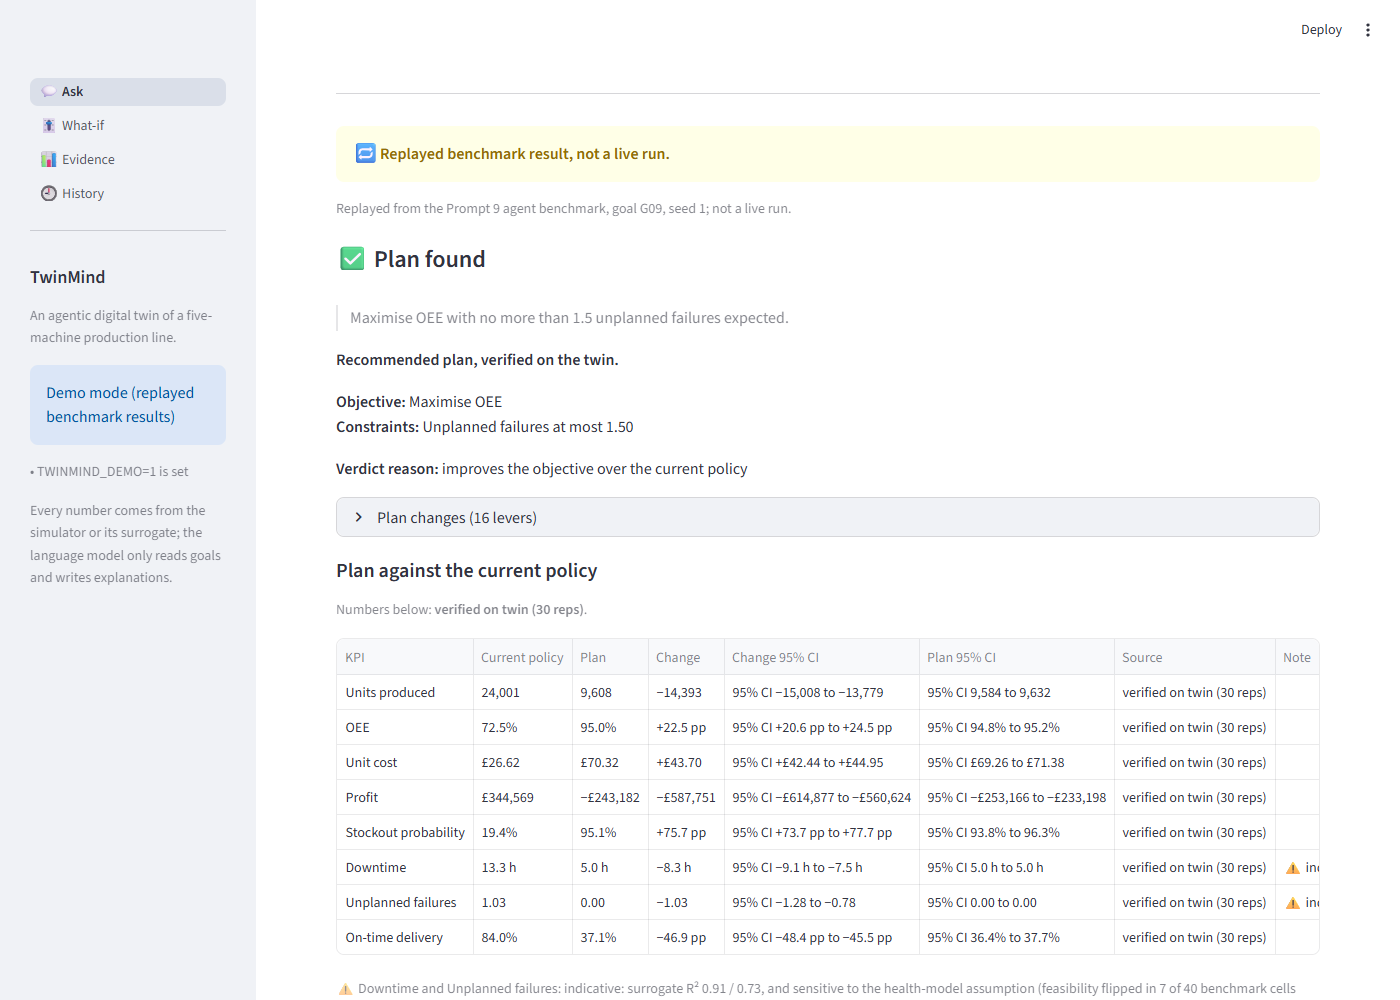
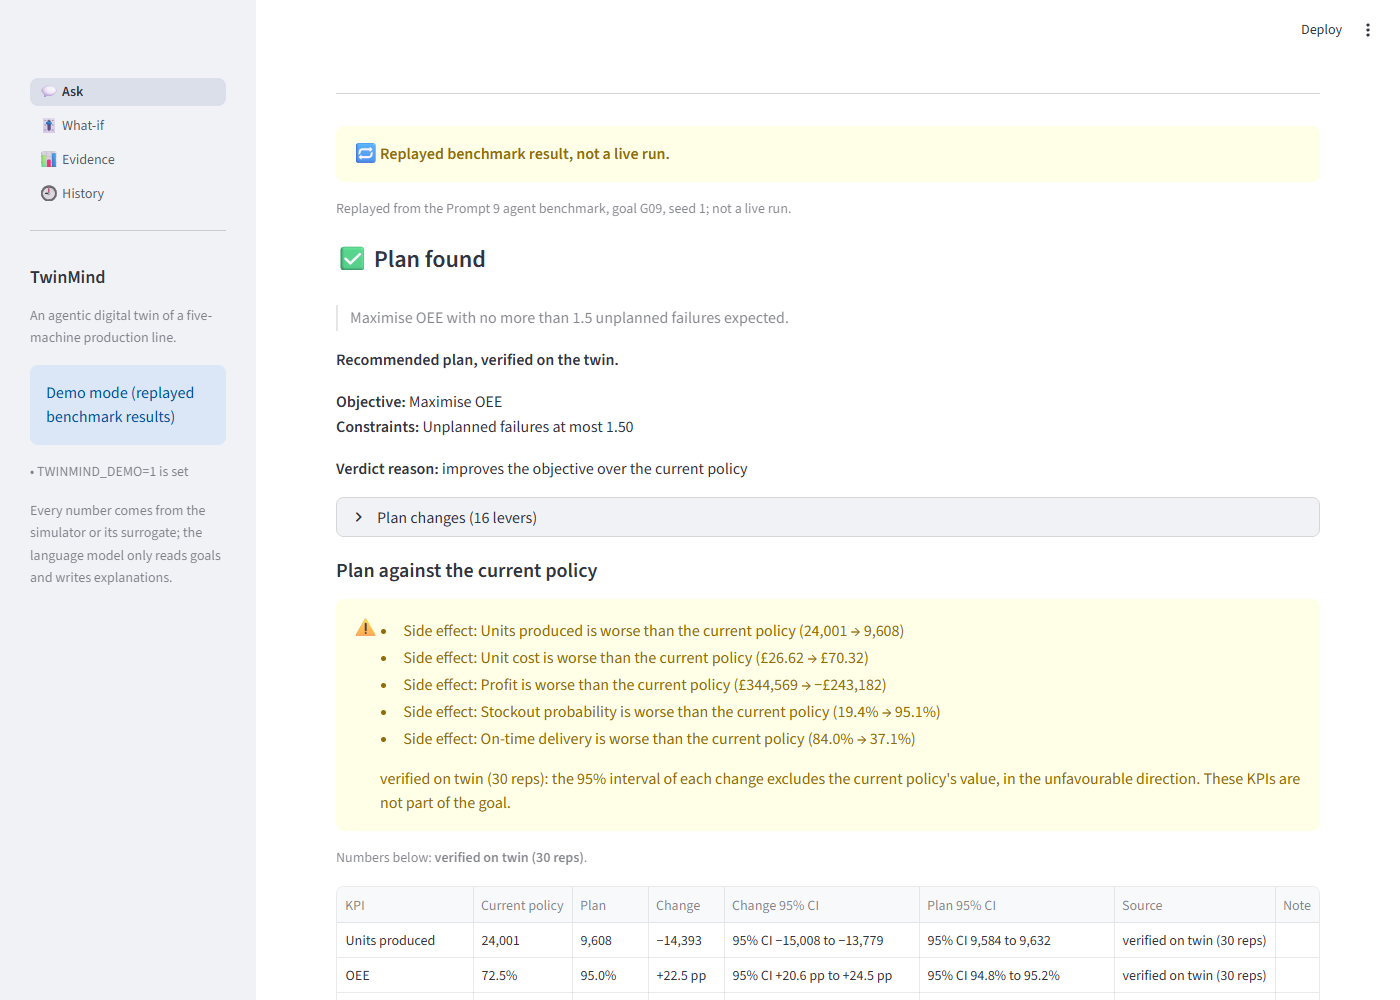
feat(ui): side-effects notice, explanation-check wording, checker caveats
Side effects (view model only): a KPI outside the goal's objective and
constraints is listed when the 95% CI of its verified paired change lies
entirely on the unfavourable side of zero. Fixed rule, not tuned: it fires
on G09 (profit and four others) and also on G07 (OEE 73.3% -> 70.6%).

Explanations now say they "passed an automated check of numbers and KPI
directions" (never "verified"), with what the check does not catch.
Card F section 8 and the Evidence page state that v2's catch rates are
development results on the set it was iterated on, that B5's 35/40 bounds
nothing, and that B5's verdict is unchanged.

Changed region(s): [[0.2457, 0.589, 0.9214, 0.868], [0.2457, 0.899, 0.9521, 1.0]]

diff --git a/src/twinmind/ui/viewmodel.py b/src/twinmind/ui/viewmodel.py
@@ -76,6 +76,35 @@ STATUS_TEXT: dict[str, tuple[str, str]] = {
 }
 
 
+#: What an explanation's check result may say. Never "verified": that word is
+#: reserved for twin numbers, and the check is far weaker than the twin.
+EXPLANATION_CHECK = "passed an automated check of numbers and KPI directions"
+EXPLANATION_CHECK_GAPS = (
+    "Negation: “profit does not rise” when it rose passes the check.",
+    "Claims about plan changes: a wrong direction for a lever (“safety stock falls” "
+    "when it rose) is not checked.",
+    "KPI swaps where both KPIs moved the same way: a number or direction attached to the "
+    "wrong KPI passes if that KPI moved the same way.",
+)
+
+
+def explanation_source(mode: str | None, *, replayed: bool = False) -> str | None:
+    """How an explanation was produced and checked, without the word "verified"."""
+    if mode == "llm" and replayed:
+        return (
+            "Written by the language model during the benchmark; it "
+            f"{EXPLANATION_CHECK} (re-run offline with checker v2)."
+        )
+    if mode == "llm":
+        return f"Written by the language model from the twin's numbers; it {EXPLANATION_CHECK}."
+    if mode == "template":
+        return (
+            "Generated from a fixed template, because the model's text did not pass the "
+            "automated check of numbers and KPI directions."
+        )
+    return None
+
+
 class OverclaimError(ValueError):
     """UI text used a word the dashboard must never use."""
 
@@ -231,7 +260,7 @@ def plan_changes(result: AgentResult) -> list[str]:
     return out
 
 
-def recommendation_card(result: AgentResult) -> RecommendationCard:
+def recommendation_card(result: AgentResult, *, replayed: bool = False) -> RecommendationCard:
     """The headline card for a result of any status."""
     label, tone = STATUS_TEXT[result.status]
     recommended = bool(result.plan and result.plan.get("recommended"))
@@ -247,12 +276,7 @@ def recommendation_card(result: AgentResult) -> RecommendationCard:
     else:
         headline = "A plan was found but is not recommended."
     n_reps = (result.baseline_comparison or {}).get("n_reps")
-    if result.explanation_mode == "llm":
-        source = "Written by the language model from the verified facts, then checked."
-    elif result.explanation_mode == "template":
-        source = "Generated from a fixed template (the model's text did not pass the checks)."
-    else:
-        source = None
+    source = explanation_source(result.explanation_mode, replayed=replayed)
     card = RecommendationCard(
         goal_text=result.goal_text,
         status=result.status,
@@ -332,6 +356,56 @@ def estimate_table(means: dict[str, float]) -> list[KPIRow]:
             )
         )
     return rows
+
+
+@dataclass(frozen=True)
+class SideEffectView:
+    """A KPI outside the goal that the plan made measurably worse."""
+
+    kpi: str
+    text: str
+    source_label: str  # always VERIFIED_LABEL: only twin intervals can trigger it
+
+
+def goal_kpis(result: AgentResult) -> set[str]:
+    """KPIs named in the goal's objective or constraints."""
+    spec = result.spec or {}
+    return set(spec.get("objective", {})) | {c["kpi"] for c in spec.get("constraints", [])}
+
+
+def side_effects(result: AgentResult) -> list[SideEffectView]:
+    """KPIs NOT in the goal whose verified change is unfavourable beyond noise.
+
+    The rule, fixed before looking at any result: a KPI outside the objective
+    and constraints is listed when the 95% CI of its paired change (plan minus
+    current policy, on the twin) lies entirely on the unfavourable side of zero
+    -- i.e. the interval excludes the baseline in the bad direction. Computed
+    from the twin's KPI table only; an estimate never triggers it.
+    """
+    evaluation = result.baseline_comparison
+    if not evaluation or result.plan is None:
+        return []
+    label = VERIFIED_LABEL.format(n=evaluation["n_reps"])
+    in_goal = goal_kpis(result)
+    out = []
+    for kpi in KPI_NAMES:
+        if kpi in in_goal:
+            continue
+        row = evaluation["kpis"][kpi]
+        low, high = float(row["diff"]["ci_low"]), float(row["diff"]["ci_high"])
+        worse = high < 0 if kpi in HIGHER_IS_BETTER else low > 0
+        if worse:
+            before = format_value(kpi, row["baseline"]["mean"])
+            after = format_value(kpi, row["plan"]["mean"])
+            out.append(
+                SideEffectView(
+                    kpi=kpi,
+                    text=f"Side effect: {KPI_DISPLAY[kpi]} is worse than the current policy "
+                    f"({before} → {after})",
+                    source_label=label,
+                )
+            )
+    return out
 
 
 def twin_table(

diff --git a/tests/test_viewmodel.py b/tests/test_viewmodel.py
@@ -226,6 +226,78 @@ def test_run_status_reports_cost_and_retries() -> None:
 
 
 # --------------------------------------------------------------------------- #
+# Side effects: KPIs outside the goal made worse beyond noise
+# --------------------------------------------------------------------------- #
+def _with(result: AgentResult, **changes: Any) -> AgentResult:
+    return AgentResult.from_dict({**result.to_dict(), **changes})
+
+
+def test_side_effects_fire_on_g09_including_profit() -> None:
+    effects = vm.side_effects(_result("G09"))
+    texts = [e.text for e in effects]
+    assert "Side effect: Profit is worse than the current policy (£344,569 → −£243,182)" in texts
+    assert {e.kpi for e in effects} == {
+        "units_produced",
+        "unit_cost",
+        "profit",
+        "stockout_probability",
+        "on_time_delivery_rate",
+    }
+    assert {e.source_label for e in effects} == {"verified on twin (30 reps)"}
+
+
+def test_g07_lists_only_its_measured_oee_drop() -> None:
+    """G07 is the clean demo goal, yet the fixed rule fires on it: OEE (not in
+    the goal) falls 73.3% -> 70.6% and the change's CI excludes zero. The rule
+    was not tuned to hide this."""
+    effects = vm.side_effects(_result("G07"))
+    assert [e.text for e in effects] == [
+        "Side effect: OEE is worse than the current policy (73.3% → 70.6%)"
+    ]
+
+
+def test_no_side_effect_when_the_interval_includes_no_change() -> None:
+    result = _result("G07")
+    evaluation = json.loads(json.dumps(result.baseline_comparison))
+    evaluation["kpis"]["oee"]["diff"]["ci_high"] = 0.001  # straddles zero
+    assert vm.side_effects(_with(result, baseline_comparison=evaluation)) == []
+
+
+def test_a_goal_kpi_is_never_listed_as_a_side_effect() -> None:
+    result = _result("G09")
+    spec = json.loads(json.dumps(result.spec))
+    spec["constraints"].append({"kpi": "profit", "op": ">=", "threshold": -1e9})
+    effects = vm.side_effects(_with(result, spec=spec))
+    assert "profit" not in {e.kpi for e in effects}
+    assert not {"oee", "unplanned_failures"} & {e.kpi for e in effects}
+
+
+def test_side_effects_need_twin_numbers() -> None:
+    assert vm.side_effects(_with(_result("G09"), baseline_comparison=None)) == []
+
+
+# --------------------------------------------------------------------------- #
+# Explanation check wording
+# --------------------------------------------------------------------------- #
+def test_explanation_check_text_never_says_verified() -> None:
+    texts = [vm.EXPLANATION_CHECK, *vm.EXPLANATION_CHECK_GAPS]
+    for mode in ("llm", "template", None):
+        for replayed in (False, True):
+            texts.append(vm.explanation_source(mode, replayed=replayed) or "")
+    for entry in _entries():
+        result = AgentResult.from_dict(entry["result"])
+        for replayed in (False, True):
+            texts.append(vm.recommendation_card(result, replayed=replayed).explanation_source or "")
+    assert all("verif" not in t.lower() for t in texts), texts
+    assert vm.EXPLANATION_CHECK in vm.explanation_source("llm") or ""
+
+
+def test_the_check_gaps_name_what_is_not_caught() -> None:
+    gaps = " ".join(vm.EXPLANATION_CHECK_GAPS).lower()
+    assert "negation" in gaps and "plan changes" in gaps and "kpi swaps" in gaps
+
+
+# --------------------------------------------------------------------------- #
 # Formatting and isolation
 # --------------------------------------------------------------------------- #
 def test_values_are_plain_decimals_with_units() -> None:

diff --git a/tests/test_dashboard.py b/tests/test_dashboard.py
@@ -180,6 +180,45 @@ def test_no_app_source_or_cached_text_uses_a_forbidden_word() -> None:
         vm.assert_no_overclaim(path.read_text(encoding="utf-8"))
 
 
+def test_side_effects_render_for_g09_and_name_profit() -> None:
+    at = _replay(_app(), "G09")
+    effects = [str(w.value) for w in at.warning if "Side effect:" in str(w.value)]
+    assert len(effects) == 1
+    assert "Side effect: Profit is worse than the current policy" in effects[0]
+    assert "verified on twin (30 reps)" in effects[0]
+
+
+def test_g07_renders_only_its_oee_side_effect() -> None:
+    at = _replay(_app(), "G07")
+    effects = [str(w.value) for w in at.warning if "Side effect:" in str(w.value)]
+    assert len(effects) == 1 and effects[0].count("Side effect:") == 1
+    assert "Side effect: OEE is worse" in effects[0]
+
+
+@pytest.mark.parametrize("goal_id", ["G07", "G01", "I01", "N01", "AA1", "G09"])
+def test_explanation_checks_are_never_called_verified(goal_id: str) -> None:
+    at = _replay(_app(), goal_id)
+    checks = [str(c.value) for c in at.caption if vm.EXPLANATION_CHECK in str(c.value)]
+    assert len(checks) == 1 and "verif" not in checks[0].lower()
+    (gaps,) = [e for e in at.expander if e.label == "What this check does not catch"]
+    gap_text = " ".join(str(m.value) for m in gaps.markdown)
+    assert "Negation" in gap_text and "plan changes" in gap_text and "KPI swaps" in gap_text
+    assert "verif" not in gap_text.lower()
+
+
+def test_the_evidence_page_states_the_checker_caveats() -> None:
+    at = _app()
+    at.switch_page("views/evidence.py").run()
+    text = " ".join(str(m.value) for m in at.markdown)
+    for caveat in sv.CHECKER_CAVEATS:
+        assert caveat in text
+    card = (PROJECT_ROOT / "reports" / "model_cards" / "f_agent_benchmark.md").read_text(
+        encoding="utf-8"
+    )
+    assert "Development results, not validation" in card
+    assert "neither a lower nor" in card and "verdict is unchanged: FAIL, 35/40" in card
+
+
 def test_the_evidence_page_shows_both_fails_and_the_b5_note() -> None:
     at = _app()
     at.switch_page("views/evidence.py").run()

diff --git a/src/twinmind/ui/components.py b/src/twinmind/ui/components.py
@@ -142,7 +142,7 @@ def result(res: AgentResult, *, replayed: bool, provenance: str | None = None) -
     """Card, KPI table, flags, options, coverage, explanation, run status."""
     if replayed:
         replay_banner(provenance)
-    card = vm.recommendation_card(res)
+    card = vm.recommendation_card(res, replayed=replayed)
     icon = TONE_ICON.get(card.tone, "")
     st.markdown(f"#### {icon} {card.status_label}")
     st.markdown(f"> {card.goal_text}")
@@ -163,6 +163,15 @@ def result(res: AgentResult, *, replayed: bool, provenance: str | None = None) -
     rows = vm.kpi_table(res)
     if rows:
         st.markdown("##### Plan against the current policy")
+        effects = vm.side_effects(res)
+        if effects:
+            st.warning(
+                "\n".join(f"- {e.text}" for e in effects)
+                + f"\n\n{effects[0].source_label}: the 95% interval of each change excludes "
+                "the current policy's value, in the unfavourable direction. These KPIs are "
+                "not part of the goal.",
+                icon="⚠",
+            )
         kpi_table(rows, with_baseline=True)
 
     flags = vm.flags_plain(res)
@@ -183,8 +192,10 @@ def result(res: AgentResult, *, replayed: bool, provenance: str | None = None) -
     if card.explanation:
         st.markdown("##### Explanation")
         st.markdown(card.explanation)
-        source = (res.trace or {}).get("explanation", {}).get("source")
-        st.caption(source if (replayed and source) else (card.explanation_source or ""))
+        if card.explanation_source:
+            st.caption(card.explanation_source)
+        with st.expander("What this check does not catch"):
+            st.markdown("\n".join(f"- {gap}" for gap in vm.EXPLANATION_CHECK_GAPS))
 
     status = vm.run_status(res)
     if replayed:

diff --git a/src/twinmind/ui/services.py b/src/twinmind/ui/services.py
@@ -421,6 +421,17 @@ B5_NOTE = (
 )
 
 
+#: How to read the explanation-checker evidence; shown under Limitations.
+CHECKER_CAVEATS = (
+    "Checker v2 was changed until it had zero v1-only misses on the same mutation set it "
+    "is scored on, so its catch rates are development results, not independent validation.",
+    "I01 seed 1 passed checker v1 and is counted inside B5's 35/40, but fails v2 with a real "
+    "direction error. v1 also rejected correct texts, so B5's count is neither a lower nor "
+    "an upper bound on explanation quality.",
+    "B5's verdict is unchanged: FAIL, 35/40.",
+)
+
+
 @dataclass(frozen=True)
 class BenchRow:
     """One pre-registered hypothesis and its result, PASS or FAIL alike."""

diff --git a/app/views/evidence.py b/app/views/evidence.py
@@ -59,6 +59,10 @@ if mutation.exists():
 # Limitations
 # --------------------------------------------------------------------------- #
 st.subheader("Limitations: where results underperformed the spec")
+st.markdown(
+    "**Reading the explanation-checker evidence**\n\n"
+    + "\n".join(f"- {caveat}" for caveat in sv.CHECKER_CAVEATS)
+)
 for title, body in sv.underperformed_sections():
     with st.expander(title):
         st.markdown(body)

diff --git a/README.md b/README.md
@@ -100,7 +100,7 @@ closest replayed goal is shown instead, labelled as a replay.
 
 | Page | What it shows |
 |---|---|
-| **Ask** | A goal → objective, constraints, the plan, a KPI table against the current policy (verified on the twin, 30 reps, with 95% CIs), critic flags in plain English, closest-achievable options for infeasible goals, training-coverage band, and the checked explanation. |
+| **Ask** | A goal → objective, constraints, the plan, any **side effects** (a KPI outside the goal whose verified change is worse beyond its 95% interval), a KPI table against the current policy (verified on the twin, 30 reps, with 95% CIs), critic flags in plain English, closest-achievable options for infeasible goals, training-coverage band, and the explanation, which has passed an automated check of numbers and KPI directions (with what that check does not catch). |
 | **What-if** | 16 levers. The surrogate's **estimate** (means only, never an interval) plus a novelty band; then **Verify on twin**: at most 10 replications under a 60 s cap, with the measured seconds. |
 | **Evidence** | B1–B5 with both FAILs, the model cards, the figures, and every "Underperformed the spec" section. |
 | **History** | Every dashboard event, with live runs and replays labelled differently, plus the agent's own run log. |

diff --git a/reports/model_cards/f_agent_benchmark.md b/reports/model_cards/f_agent_benchmark.md
@@ -414,3 +414,15 @@ What neither checker catches, plainly:
 These gaps are why the dashboard shows the twin's KPI table, with intervals,
 beside every explanation: the table is the record, and the explanation is a
 reading of it.
+
+**How to read these numbers.**
+
+- **(a) Development results, not validation.** v2 was changed until its
+  v1-only misses were zero **on this same mutation set**, so the catch rates
+  above measure the set it was tuned on. They are not an independent
+  validation of v2.
+- **(b) B5's count is no bound.** I01 seed 1 passed v1 and is counted inside
+  B5's 35/40, but fails v2 with a real direction error; and v1 also rejected
+  correct texts (the false flags in section 3). So 35/40 is neither a lower nor
+  an upper bound on explanation quality.
+- **(c) B5's verdict is unchanged: FAIL, 35/40.**
